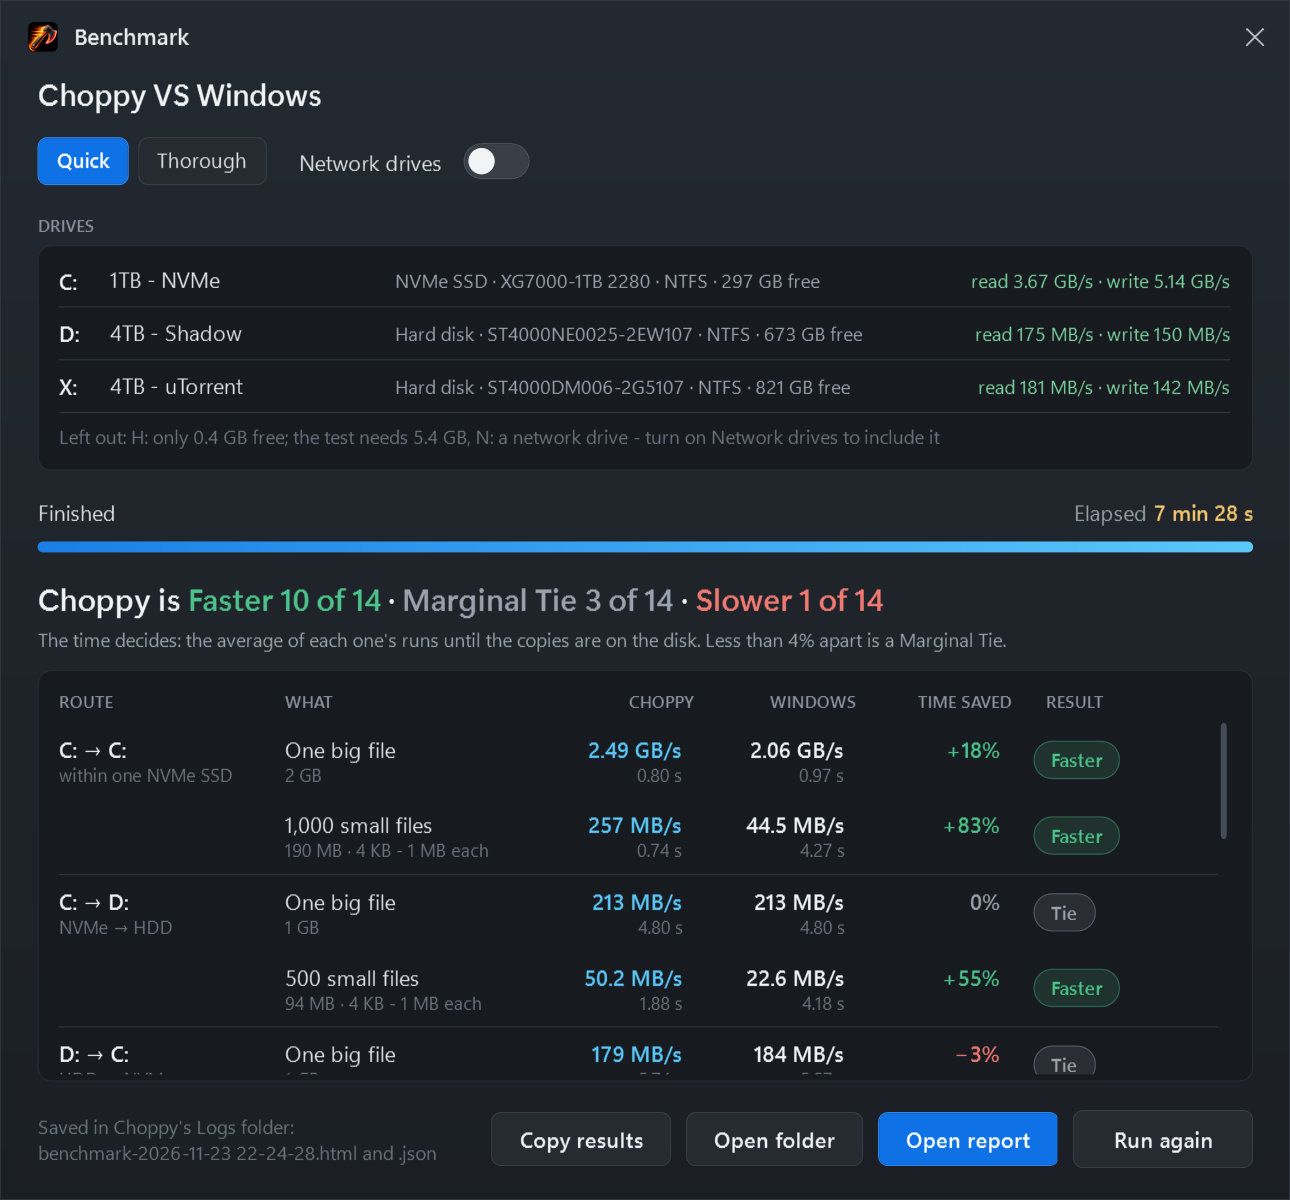
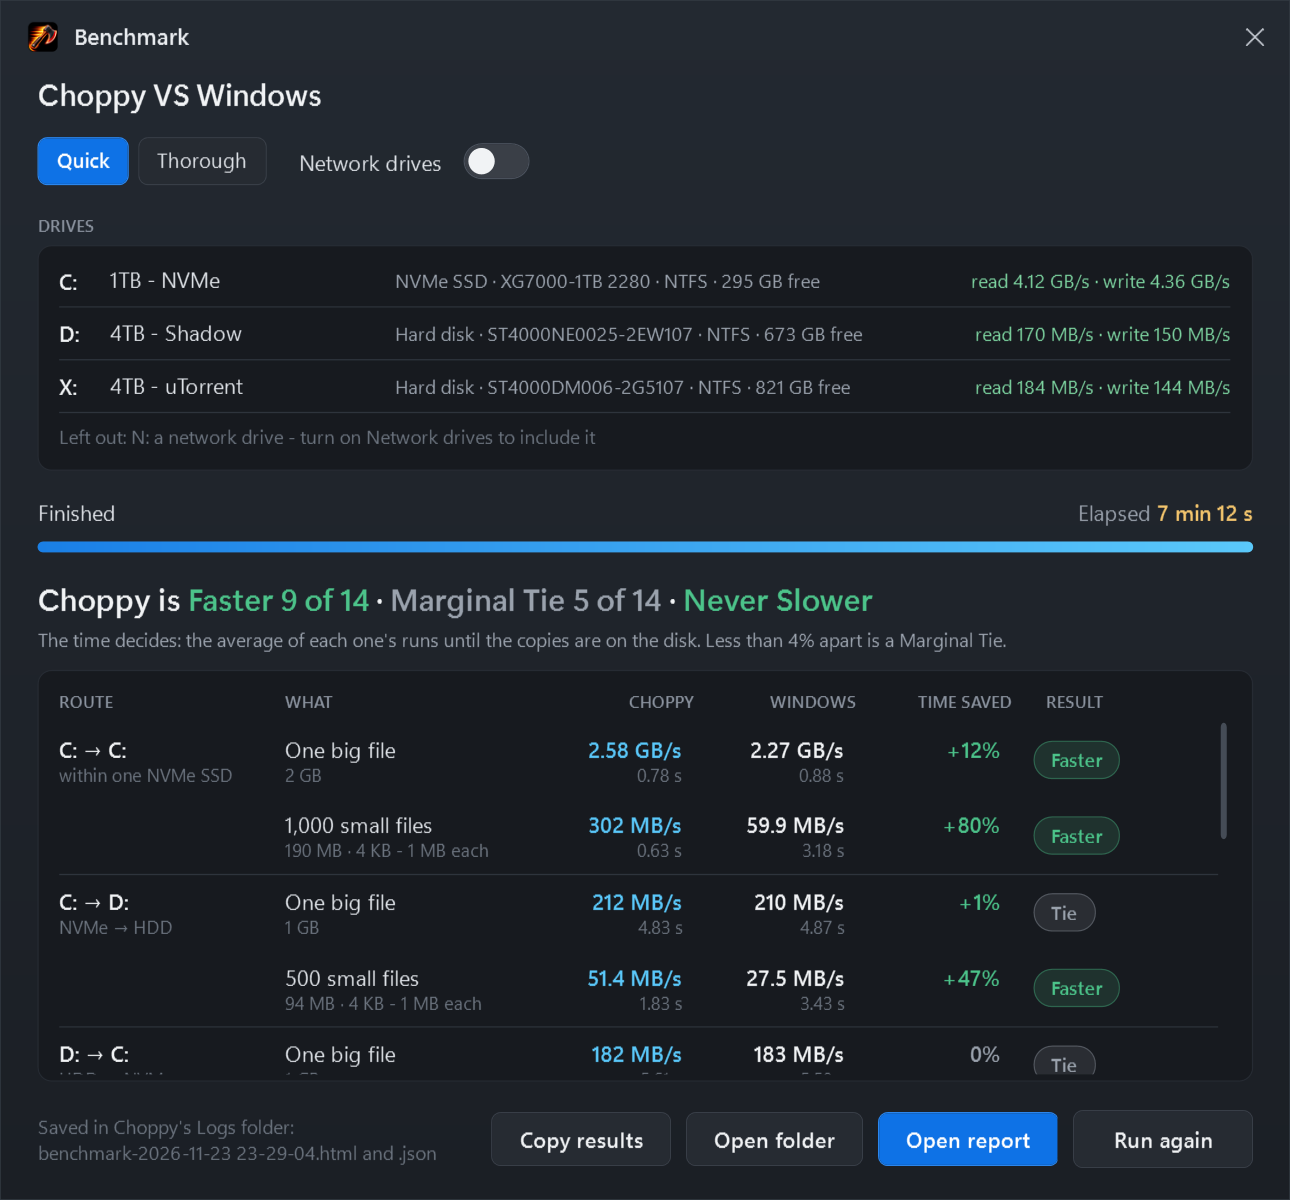
Version 1.44: big files from a hard disk to an SSD or NVMe read in 1 MB pieces with 4 out at the disk at once instead of 32 - 1 GB from two hard disks to the NVMe +1% / -1% against Windows' copy (was -1% to -4%), 2 GB 0% / -1% (was -2% / -1%), five runs each, every run within 0.16 s; README: v1.44 Q

diff --git a/src/Engine/Plan.cs b/src/Engine/Plan.cs
@@ -105,9 +105,14 @@ namespace Choppy.Engine
                 // them (measured with a torrent-like load: 32 MB x 4 = 157 MB/s, 16 MB x 4 = 152, Explorer 146).
                 p.Pipe.Chunk = 32 << 20;
                 p.Pipe.Slots = 8;
-                // a hard disk read into a fast drive: many small reads queued keep it streaming (1 MB x 32 measured
-                // ahead of 32 MB x 8 and of Explorer, two rounds out of two)
-                if (srcSlow && !dstSlow) { p.Pipe.Chunk = 1 << 20; p.Pipe.Slots = 32; }
+                // a hard disk read into a fast drive: small reads queued keep it streaming (1 MB x 32 measured ahead of
+                // 32 MB x 8 and of Explorer, two rounds out of two), but only 4 out at the disk at once: with all 32 out,
+                // some copies took 0.3-0.4 s longer (the disk likely serves them out of order and loses a turn). 1 GB from
+                // two hard disks about 80% full to the NVMe, five runs each, time to the disk against Windows' copy:
+                // 32 out -1% to -4%; 8 out -1% / -1%; 4 out +1% / -1% and -1% / -1%, every run within 0.16 s; 2 out -1% /
+                // -1%; 2 MB x 4 -2% / -2%; 4 MB x 4 -1% / -2%; read through the Windows cache -1% / -1%; Windows' own
+                // engine run by Choppy -1% / +1%. 2 GB: 4 out 0% / -1%, 32 out -2% / -1%.
+                if (srcSlow && !dstSlow) { p.Pipe.Chunk = 1 << 20; p.Pipe.Slots = 32; p.Pipe.ReadDepth = 4; }
                 // one disk at both ends: read a batch, then write it - not both at once (the heads would go back and forth every piece)
                 p.Pipe.Phased = oneDisk;
                 // writing to a hard disk: pieces already read go out together (up to 128 MB), no gap for the platter to pass

diff --git a/src/Cli.cs b/src/Cli.cs
@@ -613,6 +613,12 @@ namespace Choppy
             check("one USB drive: 32 MB batches with trials", oneUsb.Pipe.Phased && oneUsb.Pipe.Chunk == 32 << 20 && oneUsb.PipeWays.Count > 0);
             var two = Plan.Choose(new JobSpec { Op = OpKind.Copy }, hdd1, hdd2, null);
             check("two hard disks unchanged", !two.Pipe.Phased && two.Pipe.Chunk == 2 << 20 && two.Pipe.Slots == 256 && two.Pipe.ReadDepth == 4 && two.Pipe.TailAfterRead);
+            // a hard disk into a fast drive: 1 MB reads, only 4 out at the disk at once, no trials; the other way round unchanged
+            var hddToSsd = Plan.Choose(new JobSpec { Op = OpKind.Copy }, hdd1, ntfs, null);
+            var ssdToHdd = Plan.Choose(new JobSpec { Op = OpKind.Copy }, ntfs, hdd1, null);
+            check("hard disk into an SSD: 1 MB reads, 4 out at once, no trials", !hddToSsd.Pipe.Phased && hddToSsd.Pipe.Chunk == 1 << 20 && hddToSsd.Pipe.Slots == 32
+                && hddToSsd.Pipe.ReadDepth == 4 && hddToSsd.PipeWays.Count == 0);
+            check("SSD into a hard disk unchanged", ssdToHdd.Pipe.Chunk == 32 << 20 && ssdToHdd.Pipe.ReadDepth == 0 && ssdToHdd.PipeWays.Count == 2);
             check("FAT32 holds files up to 4 GB", new VolumeInfo { FileSystem = "FAT32" }.MaxFileSize == uint.MaxValue
                 && new VolumeInfo { FileSystem = "exFAT" }.MaxFileSize == 0 && ntfs.MaxFileSize == 0 && new VolumeInfo().MaxFileSize == 0);
             // the Ctrl+V hook: its own thread, put in again on time (observe only: it never takes a key here)

diff --git a/README.md b/README.md
@@ -78,28 +78,28 @@ Started as administrator (an elevated prompt, or a tool that runs as administrat
 
 ### On This PC
 
-Ryzen 5 5600X, 16 GB, Windows 10 22H2 - an NVMe SSD (C:) and two SATA hard disks (D:, X:) about 80% full. Choppy v1.43, *Quick*, 7 min 28 s:
+Ryzen 5 5600X, 16 GB, Windows 10 22H2 - an NVMe SSD (C:) and two SATA hard disks (D:, X:) about 80% full. Choppy v1.44, *Quick*, 7 min 12 s:
 
-**Choppy is Faster 10 of 14 · Marginal Tie 3 of 14 · Slower 1 of 14**
+**Choppy is Faster 9 of 14 · Marginal Tie 5 of 14 · Never Slower**
 
 | Route | What | Choppy | Windows | Time saved | Result |
 |---|---|---|---|---|---|
-| C: → C: *within one NVMe SSD* | One big file, 2 GB | 0.80 s | 0.97 s | +18% | Faster |
-| | 1,000 small files, 190 MB | 0.74 s | 4.27 s | +83% | Faster |
-| C: → D: *NVMe → hard disk* | One big file, 1 GB | 4.80 s | 4.80 s | 0% | Tie |
-| | 500 small files, 94 MB | 1.88 s | 4.18 s | +55% | Faster |
-| D: → C: *hard disk → NVMe* | One big file, 1 GB | 5.74 s | 5.57 s | −3% | Tie |
-| | 500 small files, 94 MB | 2.18 s | 6.32 s | +65% | Faster |
-| D: → D: *within one hard disk* | One big file, 1 GB | 10.84 s | 11.95 s | +9% | Faster |
-| | 500 small files, 94 MB | 3.48 s | 7.94 s | +56% | Faster |
-| C: → X: *NVMe → hard disk* | One big file, 1 GB | 5.07 s | 5.11 s | +1% | Tie |
-| | 500 small files, 94 MB | 3.14 s | 4.89 s | +36% | Faster |
-| X: → C: *hard disk → NVMe* | One big file, 1 GB | 6.18 s | 5.89 s | −5% | Slower |
-| | 500 small files, 94 MB | 3.32 s | 10.19 s | +67% | Faster |
-| X: → X: *within one hard disk* | One big file, 1 GB | 11.53 s | 12.13 s | +5% | Faster |
-| | 500 small files, 94 MB | 5.29 s | 12.88 s | +59% | Faster |
+| C: → C: *within one NVMe SSD* | One big file, 2 GB | 0.78 s | 0.88 s | +12% | Faster |
+| | 1,000 small files, 190 MB | 0.63 s | 3.18 s | +80% | Faster |
+| C: → D: *NVMe → hard disk* | One big file, 1 GB | 4.83 s | 4.87 s | +1% | Tie |
+| | 500 small files, 94 MB | 1.83 s | 3.43 s | +47% | Faster |
+| D: → C: *hard disk → NVMe* | One big file, 1 GB | 5.61 s | 5.58 s | 0% | Tie |
+| | 500 small files, 94 MB | 1.98 s | 6.17 s | +68% | Faster |
+| D: → D: *within one hard disk* | One big file, 1 GB | 10.65 s | 10.48 s | −2% | Tie |
+| | 500 small files, 94 MB | 3.37 s | 8.01 s | +58% | Faster |
+| C: → X: *NVMe → hard disk* | One big file, 1 GB | 5.12 s | 5.35 s | +4% | Faster |
+| | 500 small files, 94 MB | 2.31 s | 4.69 s | +51% | Faster |
+| X: → C: *hard disk → NVMe* | One big file, 1 GB | 6.06 s | 5.96 s | −2% | Tie |
+| | 500 small files, 94 MB | 3.17 s | 9.74 s | +67% | Faster |
+| X: → X: *within one hard disk* | One big file, 1 GB | 11.28 s | 11.47 s | +2% | Tie |
+| | 500 small files, 94 MB | 5.10 s | 12.79 s | +60% | Faster |
 
-Each time is the average of two runs, until the copies are on the disk (flushed). Small files are 4 KB-1 MB each.
+Each time is the average of two runs, until the copies are on the disk (flushed). Small files are 4 KB-1 MB each. On a nearly full hard disk, where a big file lands can move its time by up to 20% from one run to the next, for both.
 
 ### How It Measures
 

diff --git a/.github/RELEASE_NOTES.md b/.github/RELEASE_NOTES.md
@@ -1,15 +1,15 @@
-## Choppy v1.43
+## Choppy v1.44
 
 📋⚡ Windows 10 / 11 - fast, clear file copier ⚡ everything that matters in one plain, dark window.
 
-### What's in v1.43
-- **Big files from an SSD or NVMe to a hard disk, any size:** the last file of a copy goes through the Windows cache in 4 MB writes with its size reserved first, the way Explorer's copy sends it - now whatever its size. Before, a file bigger than a quarter of the free memory (2 GB on a 16 GB PC) went straight to the disk and first tried a few ways of writing, which took longer on a nearly full disk. Measured from the NVMe to two hard disks about 80% full, five runs each, time until the copy is on the disk against Windows' copy:
-  - 2 GB: **+5% / −1%** (before −8% / −22%)
-  - 4 GB: **0% / −2%** (before +10% / −20%)
-  - Faster or a Marginal Tie on both disks; small files and mixed folders are copied as before.
-- As before: never for a USB drive, a move or a copy with Verify; from a hard disk only a file that fits in memory.
+### What's in v1.44
+- **Big files from a hard disk to an SSD or NVMe, steady:** still read in 1 MB pieces, but only 4 of them are out at the disk at once instead of 32. With all 32 queued, some copies took 0.3-0.4 s longer for 1 GB - in the v1.43 Benchmark one such run made X: → C: *Slower* (−5%). Measured from two hard disks about 80% full to the NVMe, five runs each, time until the copy is on the disk against Windows' copy:
+  - 1 GB: **+1% / −1%**, again **−1% / −1%** (before between −1% and −4%)
+  - 2 GB: **0% / −1%** (before −2% / −1%)
+  - every run within 0.16 s of the others (before up to 0.47 s apart); bigger pieces, 2 or 8 at once, or reading through the Windows cache did no better.
+- **Benchmark on that PC (Quick):** *Choppy is Faster 9 of 14 · Marginal Tie 5 of 14 · Never Slower* - small files 47-80% less time on every route.
 
 ### Install / Update
-1. Download **Choppy-v1.43.zip** and extract all files (or use the PowerShell one-liner from the README).
+1. Download **Choppy-v1.44.zip** and extract all files (or use the PowerShell one-liner from the README).
 2. Double-click **Activate Choppy.cmd** (or run `build.ps1` and choose **[1]**).
 3. Remove at any time with **Revert to Windows Copy.cmd**.
